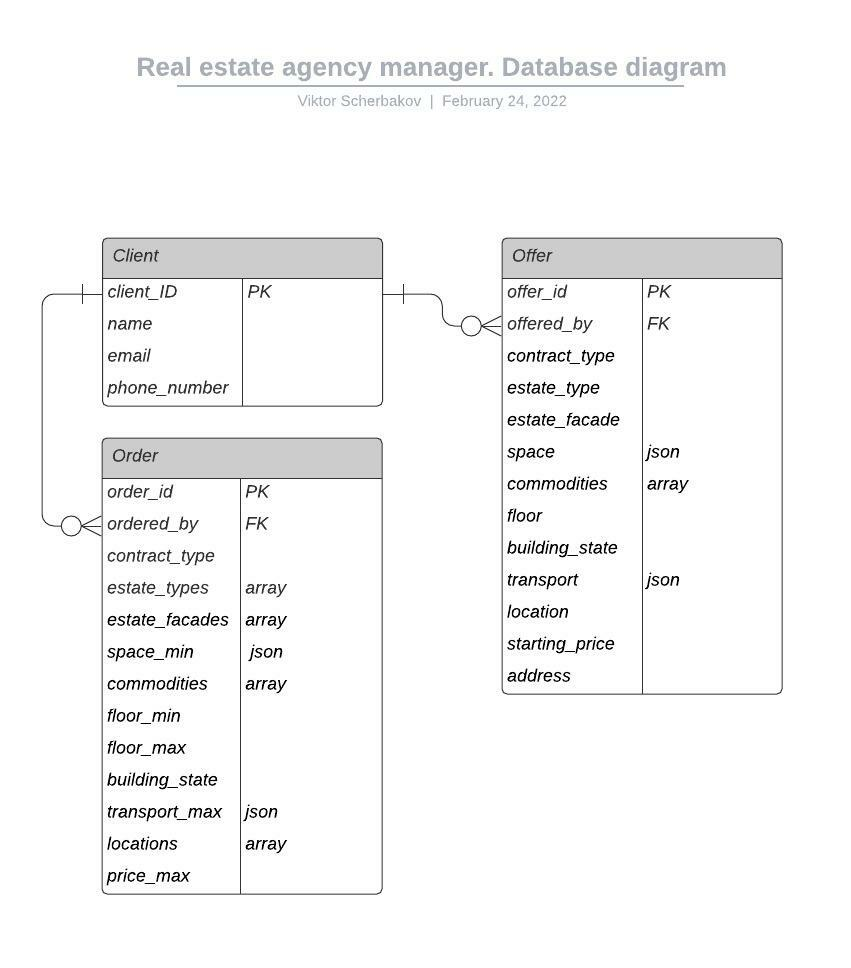
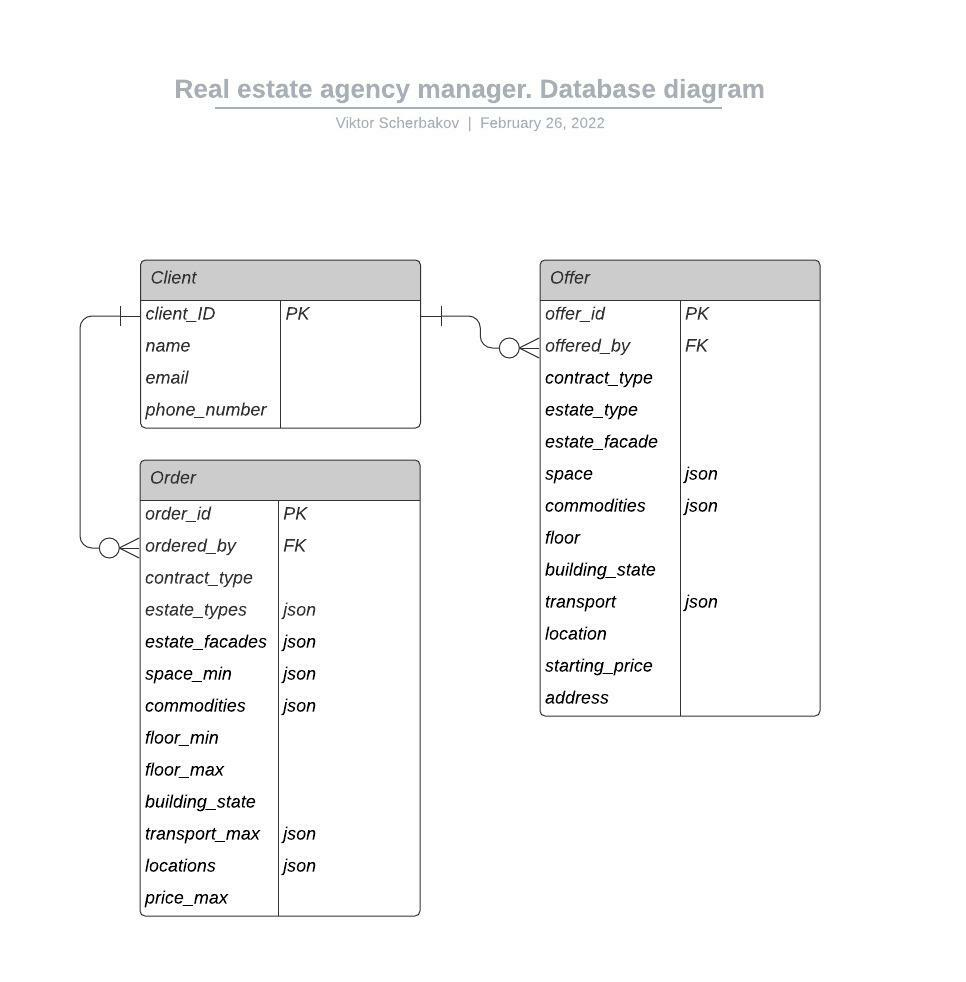
review fixes

Changed region(s): [[0.0611, 0.2479, 0.4888, 0.9298], [0.4888, 0.2479, 0.9471, 0.7438], [0.1528, 0.062, 0.8555, 0.155]]

diff --git a/docs/pages.md b/docs/pages.md
@@ -2,24 +2,30 @@
 
 ## Страница описания
 
-* Можно попасть из страницы поиска.
-* Содержит описание объекта (клиента, предложения или пользователя), кнопку для удаления и кнопку для модификации объекта.
-* Можно перейти обратно на страницу поиска.
+* Можно попасть из результатов поиска.
+* Содержит описание объекта (клиента, предложения или заказа):
+  * для клиента - контакты, имя и id клиента;
+  * для предложения - параметры предложения и соответствующего объекта недвижимости, id предложения;
+  * для заказа - параметры заказа и требуемые/допустимые параметры желаемого объекта недвижимости, id заказа;
+* Содержит кнопку для удаления объекта.
+* Содержит кнопку для модификации объекта.
+* Можно перейти обратно на главную страницу.
 
-## Страница поиска
+## Главная страница
 
-* Можно попасть из главной страницы.
-* Содержит меню поиска по множеству параметров, зависящих от выбранного из выпадающего списка объекта поиска и список объектов, подходящих под параметры поиска.
+* Первая страница при запуске приложения.
+* Содержит поле выбора объекта для поиска: клиента, предложения или заказа.
+* Содержит меню поиска по множеству параметров, зависящих от выбранного из объекта для поиска и список объектов, подходящих под параметры поиска:
+  * для клиентов задаются контакты, имя или id;
+  * для предложения задаются параметры предложения и соответствующего объекта недвижимости или id;
+  * для заказа задаются параметры заказа, требуемые/допустимые параметры желаемого объекта недвижимости или id;
 * Можно перейти на страницы объектов, нажав на соответствующую ему позицию в списке, можно перейти обратно на главную страницу.
 
 ## Страница добавления
 
 * Можно попасть из главной страницы.
-* Содержит выпадающие списки и поля для задания характеристик объекта.
+* Содержит поля для задания характеристик объекта. В зависимости от поля одно значение выбирается из списка, несколько значений выбирается из списка или вводится строковое значение поля:
+  * для клиентов можно задать контакты или имя;
+  * для предложения можно задать параметры предложения и параметры соответствующего объекта недвижимости;
+  * для заказа задаются параметры заказа и требуемые/допустимые параметры желаемого объекта недвижимости;
 * Можно перейти обратно на главную страницу.
-
-## Главная страница
-
-* Первая страница при запуске приложения
-* Содержит кнопки для перехода на страницу для добавления клиента, на страницу для добавления предложения, на страницу для добавления заказа и на страницу поиска.
-* Можно перейти на страницу добавления или на страницу поиска.

diff --git a/docs/database.md b/docs/database.md
@@ -5,3 +5,18 @@
 * `Client` Таблица клиентов агентства.
 * `Order` Таблица заказов. Все значения либо принимают (возможно пустые) массивы или json-объекты, либо имеют возможность принимать `NULL` значение. Исключение - `order_id`, `ordered_by` и `contract_type` поля.
 * `Offer` Таблица предложений. Все значения фиксированы, `NULL` значений нет.
+
+## Описание json полей:
+
+### Order
+* `estate_types` - имеет вид отношения `"тип недвижимости": bool`, задающее допустимые типы недвижимости (комната, квартира, дом и пр.).
+* `estate_facades` - имеет вид отношения `"тип фасада": bool`, задающее допустимые типы фасадов (деревянный, панельный, кирпичный и пр.).
+* `space_min` - имеет вид отношения `"комната": "минимальная площадь"`, задающее минимальные требования к площади в квадратных метрах отдельных комнатах (и недвижимости в целом).
+* `commodities` - имеет вид отношения `"удобства": bool`, задающее требования по наличие удобств (раздельный санузел, Интернет, телевидение и пр.).
+* `transport_max` - имеет вид отношения `"тип транспорта": "максимальное расстояние"`, задающее максимально допустимое расстояние до каких-либо видов транспорта в минутах пешком (метро, электричка, автобус и пр.).
+* `locations` - имеет вид отношения `"расположение": bool`, задающее допустимые расположения недвижимости (города Московской области, Москва внутри МКАД, Москва вне МКАД и пр.).
+
+### Offer
+* `space` - имеет вид отношения `"комната": "площадь"`, задающее площадь в квадратных метрах отдельных комнатах (и недвижимости в целом).
+* `commodities` - имеет вид отношения `"удобства": bool`, задающее наличие удобств (раздельный санузел, Интернет, телевидение и пр.).
+* `transport` - имеет вид отношения `"тип транспорта": "расстояние"`, задающее расстояние до каких-либо видов транспорта в минутах пешком (метро, электричка, автобус и пр.).
